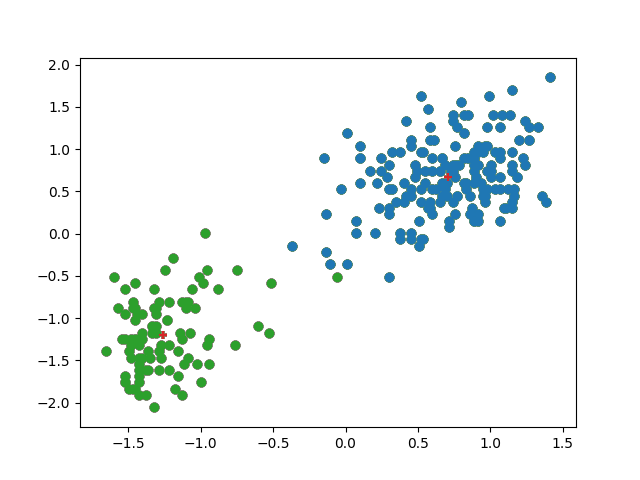
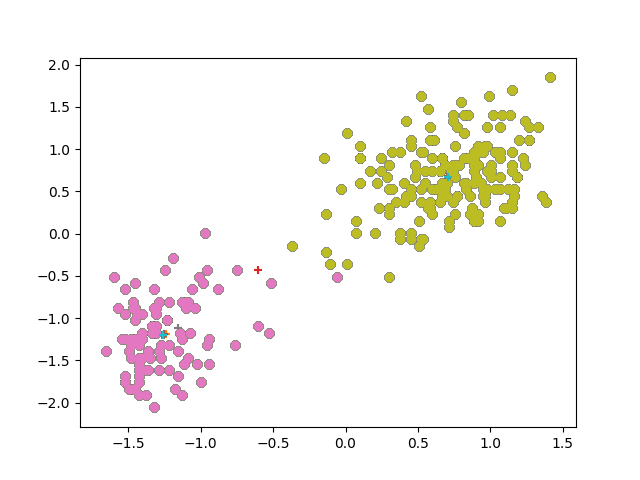
change argmax to argmin

diff --git a/k-means_image.py b/k-means_image.py
@@ -4,7 +4,7 @@ import pandas as pd
 import cv2
 plt.ion()
 K = 4 #number of clusters
-epoches = 100 #number of iteration
+epoches = 10 #number of iteration
 eps = 1e-6
 data = cv2.imread('test_img.jpeg')
 h,w,c = data.shape[0],data.shape[1],data.shape[2]
@@ -24,7 +24,7 @@ for epoch in range(epoches):
     score_map = np.zeros((dataset.shape[0],K))
     for i in range(K):
         score_map[:,i] = np.sum(np.power(dataset-mean[i,:],2),axis=1)
-    k_index = np.argmax(score_map,axis=1)
+    k_index = np.argmin(score_map,axis=1)
     for i in range(K):
         mean[i,:] = np.sum(dataset[np.where(k_index==i)[0],:],axis=0)/(np.where(k_index==i)[0].shape[0]+eps)
         img_temp[np.where(k_index==i)[0],:] = l[i]

diff --git a/k-means.py b/k-means.py
@@ -14,7 +14,8 @@ dataset = np.hstack((x,y)) # dataset stacked horizontally
 
 for i in range(dataset.shape[1]):
     dataset[:,i] = (dataset[:,i]-dataset[:,i].mean())/dataset[:,i].std()
-    
+
+
 mean = np.random.rand(K,dataset.shape[1])
 score_map = np.zeros((dataset.shape[0],K))
 
@@ -22,7 +23,7 @@ for epoch in range(epoches):
     score_map = np.zeros((dataset.shape[0],K))
     for i in range(K):
         score_map[:,i] = np.sum(np.power(dataset-mean[i,:],2),axis=1)
-    k_index = np.argmax(score_map,axis=1)
+    k_index = np.argmin(score_map,axis=1)
 
     for i in range(K):
         mean[i,:] = np.sum(dataset[np.where(k_index==i)[0],:],axis=0)/(np.where(k_index==i)[0].shape[0]+eps)
